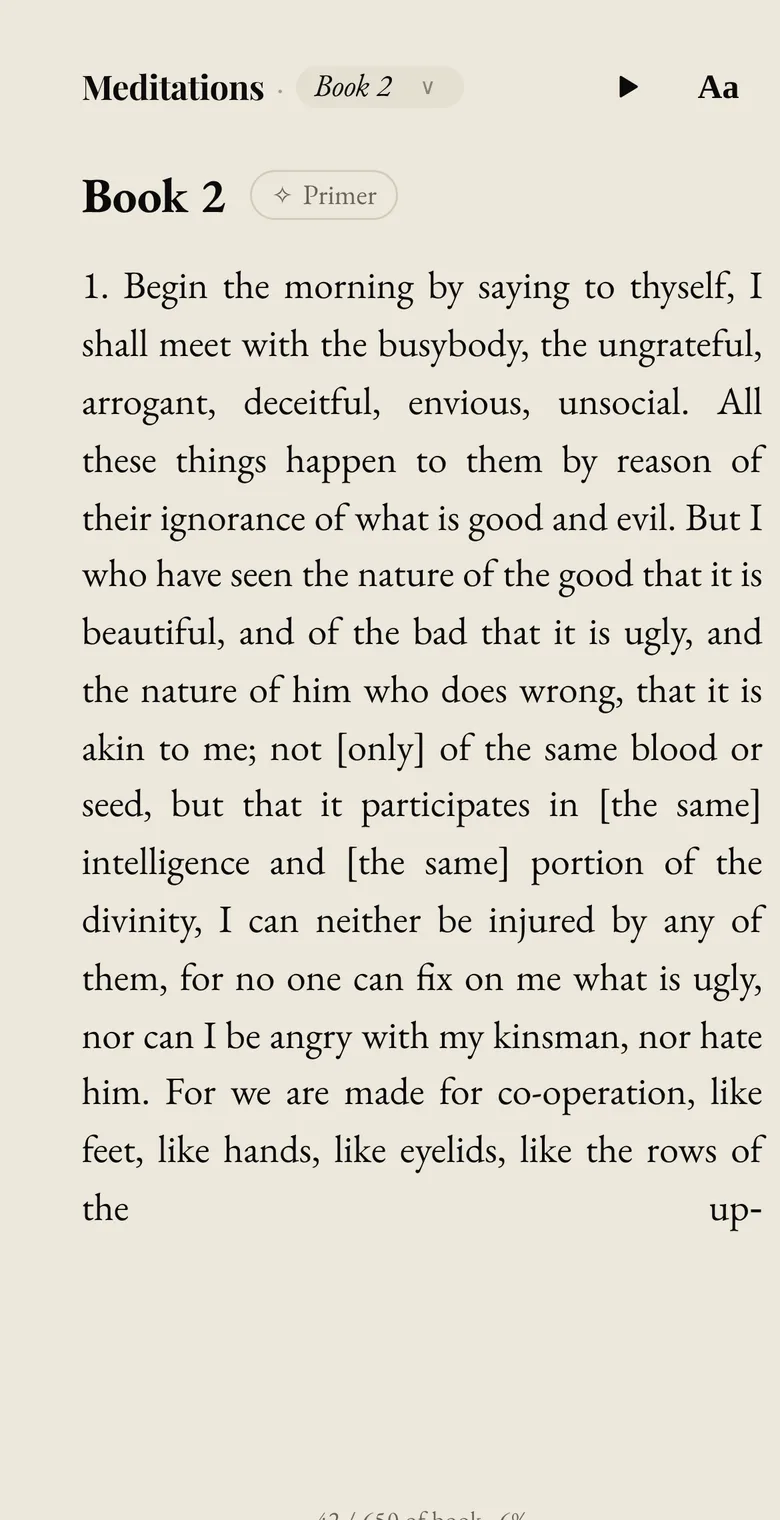
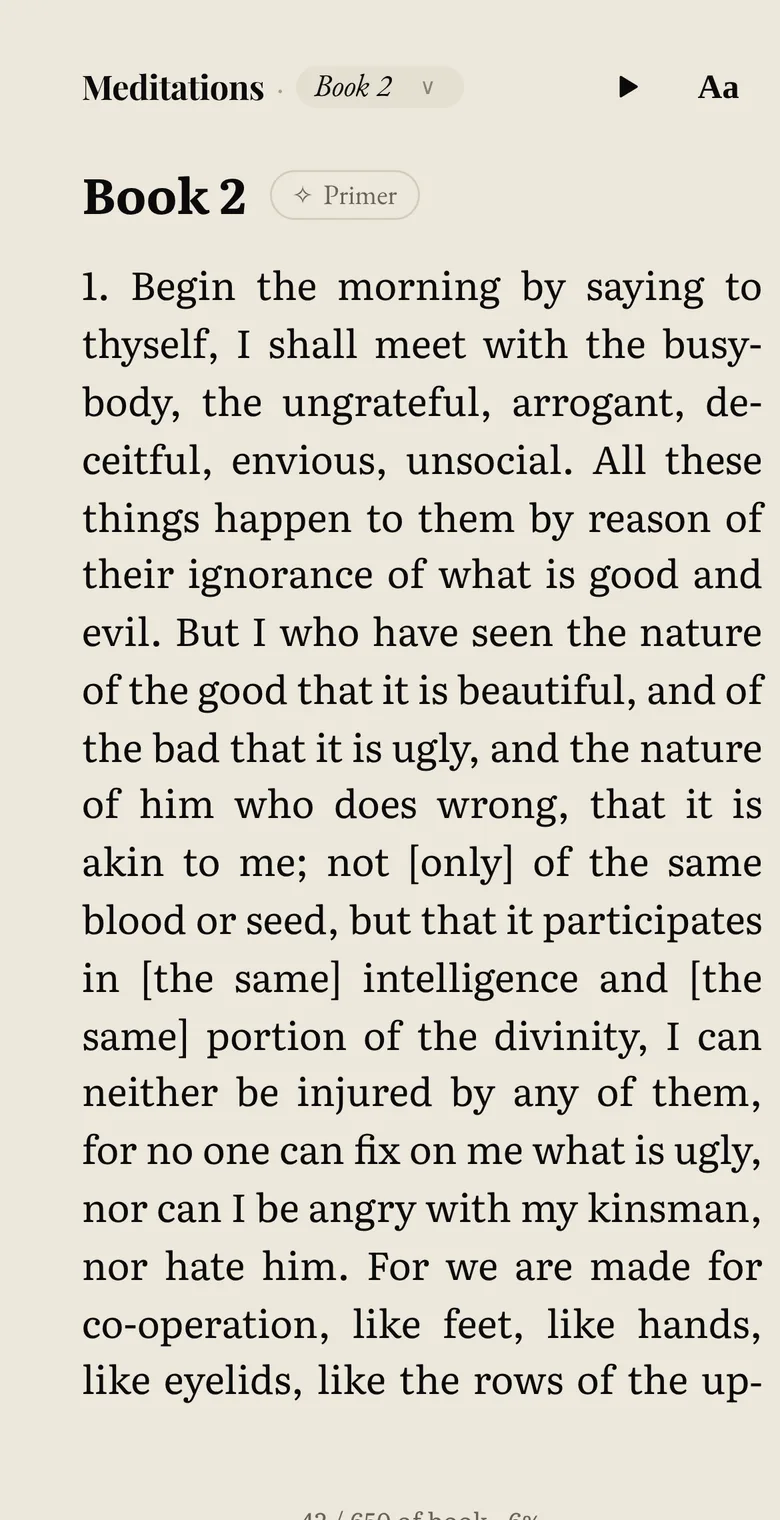
About page, phone: stay zoomed out, show every tap, Aa for the switch
No zoom: the whole phone stays in view (Anders, 19 Nov). A touch dot shows each action on the phone as on desktop:
the drag, Explain, a tap on Aa before the modern-English wave, Play and Summary. The drawn edition menu and its
phone-only frame are gone, with the test added for it. The first frame now waits for the book's font.

Claude-Session: https://claude.ai/code/session_01MT1m8mq3NtYNBEbe7tz8nU

Changed region(s): [[0.0923, 0.0928, 0.9846, 0.9276], [0.4, 0.9895, 0.6154, 1.0], [0.6462, 0.9895, 0.6769, 1.0]]

diff --git a/app/public/lab/try/try.js b/app/public/lab/try/try.js
@@ -18,19 +18,15 @@
   ]
   // [file, step, milliseconds on screen]. Listen is fourteen frames 280 ms apart, as captured, so the marked word moves
   // word by word (Anders, 19 Nov: it lagged); they cut, not fade, into each other.
-  // A fourth field marks a phone-only frame: the phone shows Aa opened and Modern English chosen before the wave
-  // (Anders, 19 Nov); the desktop's switch is in its own top bar, where the pointer clicks it.
-  var PHONE = window.matchMedia('(max-width: 899px)').matches
   var FRAMES = [
     ['01', 0, 1300], ['02', 0, 1500], ['04', 0, 3600],
-    ['05', 1, 2200, 'phone'],
     ['08', 1, 3200],
     ['11', 2, 280], ['12', 2, 280], ['13', 2, 280], ['14', 2, 280], ['15', 2, 280], ['16', 2, 280], ['17', 2, 280],
     ['18', 2, 280], ['19', 2, 280], ['20', 2, 280], ['21', 2, 280], ['22', 2, 280], ['23', 2, 280], ['24', 2, 900],
     ['10', 3, 4200],
-  ].filter(function (frame) { return !frame[3] || PHONE })
+  ]
   // Bump when the frames are re-captured, so browsers fetch the new ones.
-  var FRAMES_V = '20261119e'
+  var FRAMES_V = '20261119f'
   var reduce = window.matchMedia('(prefers-reduced-motion: reduce)').matches
 
   var $ = function (selector, root) { return (root || document).querySelector(selector) }
@@ -54,7 +50,7 @@
 
   // ---- The visitor's pointer (Anders, 19 Nov: show the click before each change). Where it goes was recorded when the
   // frames were captured (scripts/capture-try-frames.cjs writes frames/*-pointer.json), as fractions of the frame. ----
-  var POINTER = {"desktop": {"selectFrom": [0.1141, 0.3289], "selectTo": [0.5293, 0.367], "explain": [0.5867, 0.4419], "modern": [0.644, 0.0458], "play": [0.91, 0.0458], "summary": [0.7713, 0.2875]}, "phone": {"selectFrom": [0.1059, 0.2422], "selectTo": [0.2497, 0.4082], "explain": [0.2709, 0.5053], "play": [0.7842, 0.0528], "summary": [0.5729, 0.157]}}
+  var POINTER = {"desktop": {"selectFrom": [0.1141, 0.3289], "selectTo": [0.5293, 0.367], "explain": [0.5867, 0.4419], "modern": [0.644, 0.0458], "play": [0.91, 0.0458], "summary": [0.7713, 0.2875]}, "phone": {"selectFrom": [0.131, 0.1657], "selectTo": [0.6907, 0.2793], "explain": [0.3141, 0.3458], "modern": [0.88, 0.0361], "play": [0.7621, 0.0361], "summary": [0.6317, 0.1074]}}
   // What happens on a frame before the next one: a drag that selects, or a press on a button.
   var ACTIONS = { '01': { drag: ['selectFrom', 'selectTo'] }, '02': { press: 'explain' }, '04': { press: 'modern' }, '08': { press: 'play' }, '24': { press: 'summary' } }
   var phoneQuery = window.matchMedia('(max-width: 899px)')
@@ -72,21 +68,6 @@
     ['On the go?', 'Listen.'],
     ['Short on time?', 'Get the gist.'],
   ]
-  // The camera, like the film: it shows the whole phone, then zooms in on what matters (the passage being chosen, the
-  // card, the word being read) and back out for the wave. The phone's left edge stays put, so it never runs under
-  // the caption; the zoom spills off the right of the screen. Focus: how far down the frame to look, and how close.
-  var FOCUS = { '01': null, '02': [0.2, 1.4], '04': [0.8, 1.3], '05': null, '08': null, '10': [0.8, 1.3] }
-  var LISTEN_FOCUS = [0.2, 1.4]
-  function frameCamera(file) {
-    var focus = file in FOCUS ? FOCUS[file] : LISTEN_FOCUS
-    if (!focus) { demo.style.setProperty('--try-camera', 'none'); return }
-    var stage = demo.parentNode, scale = focus[1], top = demo.offsetTop, height = demo.offsetHeight
-    var y = 22 + focus[0] * (height - 22)
-    // Bring the focus to the middle of the stage, but never leave a gap above or below the phone's screen.
-    var ty = stage.clientHeight / 2 - top - scale * y
-    ty = Math.min(-top, Math.max(stage.clientHeight - top - scale * height, ty))
-    demo.style.setProperty('--try-camera', 'translateY(' + Math.round(ty) + 'px) scale(' + scale + ')')
-  }
   var caption = document.createElement('p')
   caption.className = 'try-caption'
   caption.setAttribute('aria-hidden', 'true')
@@ -191,7 +172,7 @@
     var frame = FRAMES[index]
     var duration = pace(frame[2]) + (opened ? (phoneQuery.matches ? 1100 : 600) : 0)
     if (opened && !phoneQuery.matches) announce(frame[1])
-    if (phoneQuery.matches) { frameCaption(frame[1]); frameCamera(frame[0]) }
+    if (phoneQuery.matches) frameCaption(frame[1])
     duration = act(frame, duration)
     timer = setTimeout(function () {
       // Switch only once the next frame is decoded, so a change never flashes an empty reader.

diff --git a/app/public/lab/try/try.css b/app/public/lab/try/try.css
@@ -349,7 +349,7 @@ html[data-eink="true"] .try-backdrop { display: none; }
 @media (min-width: 900px) { .try-step { display: none; } }
 
 /* ---- Phone: the launch film's way (Anders, 19 Nov). The caption on the left, the reader in a real phone shape on the
-   right (its frames are a phone's own screen), and a camera that zooms in on what matters and back out. ---- */
+   right (its frames are a phone's own screen), always whole: no zoom (Anders, 19 Nov), a touch dot shows each tap. ---- */
 .try-caption { display: none; }
 @media (max-width: 899px) {
   .try-show {
@@ -376,12 +376,15 @@ html[data-eink="true"] .try-backdrop { display: none; }
     padding: 22px 0 0; border: 7px solid #12100e; border-radius: 34px; background: #ebe6da; overflow: hidden;
     box-shadow: 0 0 0 1.5px #9a6a45, 0 14px 30px rgba(0, 0, 0, .4);
     -webkit-mask-image: none; mask-image: none;
-    transform-origin: 0 0; transform: var(--try-camera, none); transition: transform 1.3s cubic-bezier(.45, 0, .2, 1);
   }
   .try-demo::before { content: ''; position: absolute; z-index: 3; top: 6px; left: 34%; width: 32%; height: 13px; border-radius: 8px; background: #000; }
   .try-demo picture { position: static; grid-area: 1 / 1; height: auto; }
   .try-demo img { position: static; width: 100%; height: auto; }
-  .try-pointer-layer { display: none; }
+  /* The touch dot taps over the screen inside the phone: the layer covers the screen, under the notch strip. */
+  .try-pointer-layer { inset: 22px 0 0 0; aspect-ratio: auto; }
+  .try-pointer { width: 22px; height: 22px; margin: -11px 0 0 -11px; }
+  .try-pointer::after { left: -5px; top: -5px; width: 28px; height: 28px; }
+  .try-scene { display: none; }
   .try-phone-more { left: 16px; right: auto; justify-content: flex-start; }
   /* The dots alone, centred; the caption names the moment. */
   .try-step { left: 0; right: 0; justify-content: center; grid-template-columns: auto; bottom: calc(env(safe-area-inset-bottom, 0px) + 106px); }
@@ -389,4 +392,4 @@ html[data-eink="true"] .try-backdrop { display: none; }
   .try-count { grid-column: 1; }
 }
 @media (max-width: 374px) { .try-caption { font-size: 20px; } }
-@media (max-width: 899px) and (prefers-reduced-motion: reduce) { .try-demo, .try-caption span { transition: none; } }
+@media (max-width: 899px) and (prefers-reduced-motion: reduce) { .try-caption span { transition: none; } }

diff --git a/app/public/about.html b/app/public/about.html
@@ -22,9 +22,9 @@
 <link rel="icon" href="/favicon.ico">
 <link rel="stylesheet" href="/fonts/tinct-fonts.css">
 <link rel="stylesheet" href="/lab/tinct-ui.css?v=20261009rel10">
-<link rel="stylesheet" href="/lab/try/try.css?v=20261119film3">
+<link rel="stylesheet" href="/lab/try/try.css?v=20261119film4">
 <script type="module" src="/lab/internal-traffic.js"></script>
-<script src="/lab/try/try.js?v=20261119film3" defer></script>
+<script src="/lab/try/try.js?v=20261119film4" defer></script>
 </head>
 <body class="try">
 <div class="try-backdrop" aria-hidden="true"></div>
@@ -64,7 +64,7 @@
     <div class="try-show">
       <!-- Frames of the real reader (scripts/capture-try-frames.cjs), Meditations Book 2. The first is in the page; try.js adds the rest. -->
       <a class="try-demo" href="/reader?book=meditations&amp;chapter=2" data-try-demo aria-label="Meditations, Book 2: open it in the reader">
-        <picture class="is-on"><source media="(max-width: 899px)" srcset="/lab/try/frames/phone-01.webp?v=20261119e"><img src="/lab/try/frames/desktop-01.webp?v=20261119e" alt="" width="2112" height="1222" fetchpriority="high"></picture>
+        <picture class="is-on"><source media="(max-width: 899px)" srcset="/lab/try/frames/phone-01.webp?v=20261119f"><img src="/lab/try/frames/desktop-01.webp?v=20261119f" alt="" width="2112" height="1222" fetchpriority="high"></picture>
         <span class="try-demo-open" aria-hidden="true">Open it in the reader</span>
       </a>
       <a class="try-phone-more" href="#pricing">Pricing · Questions <span aria-hidden="true">↓</span></a>

diff --git a/app/src/tryPage.test.ts b/app/src/tryPage.test.ts
@@ -186,12 +186,6 @@ describe('the reader plays itself (Anders, 19 Nov 2026)', () => {
     expect(page).not.toMatch(/data-try-item|data-try-hint|data-try-limit|<iframe/)
   })
 
-  it('has a phone frame for every phone-only moment', () => {
-    const phoneOnly = [...script.matchAll(/\['(\d\d)', \d, \d+, 'phone'\]/g)].map(match => match[1])
-    expect(phoneOnly.length).toBeGreaterThan(0)
-    for (const file of phoneOnly) expect(statSync(`public/lab/try/frames/phone-${file}.webp`).size, `phone-${file}`).toBeGreaterThan(1000)
-  })
-
   it('has a desktop and a phone frame for every moment it plays', () => {
     for (const { file } of frames) for (const kind of ['desktop', 'phone']) {
       expect(statSync(`public/lab/try/frames/${kind}-${file}.webp`).size, `${kind}-${file}`).toBeGreaterThan(1000)
